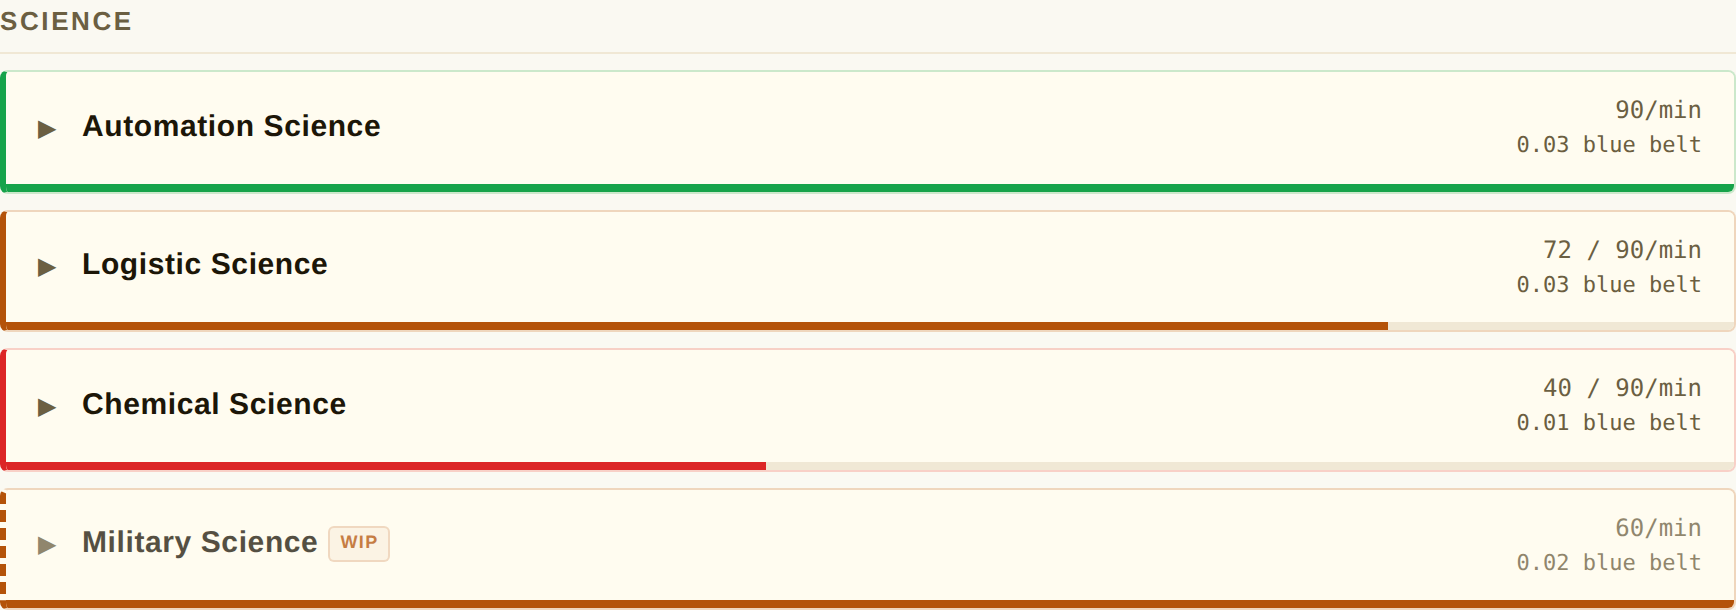
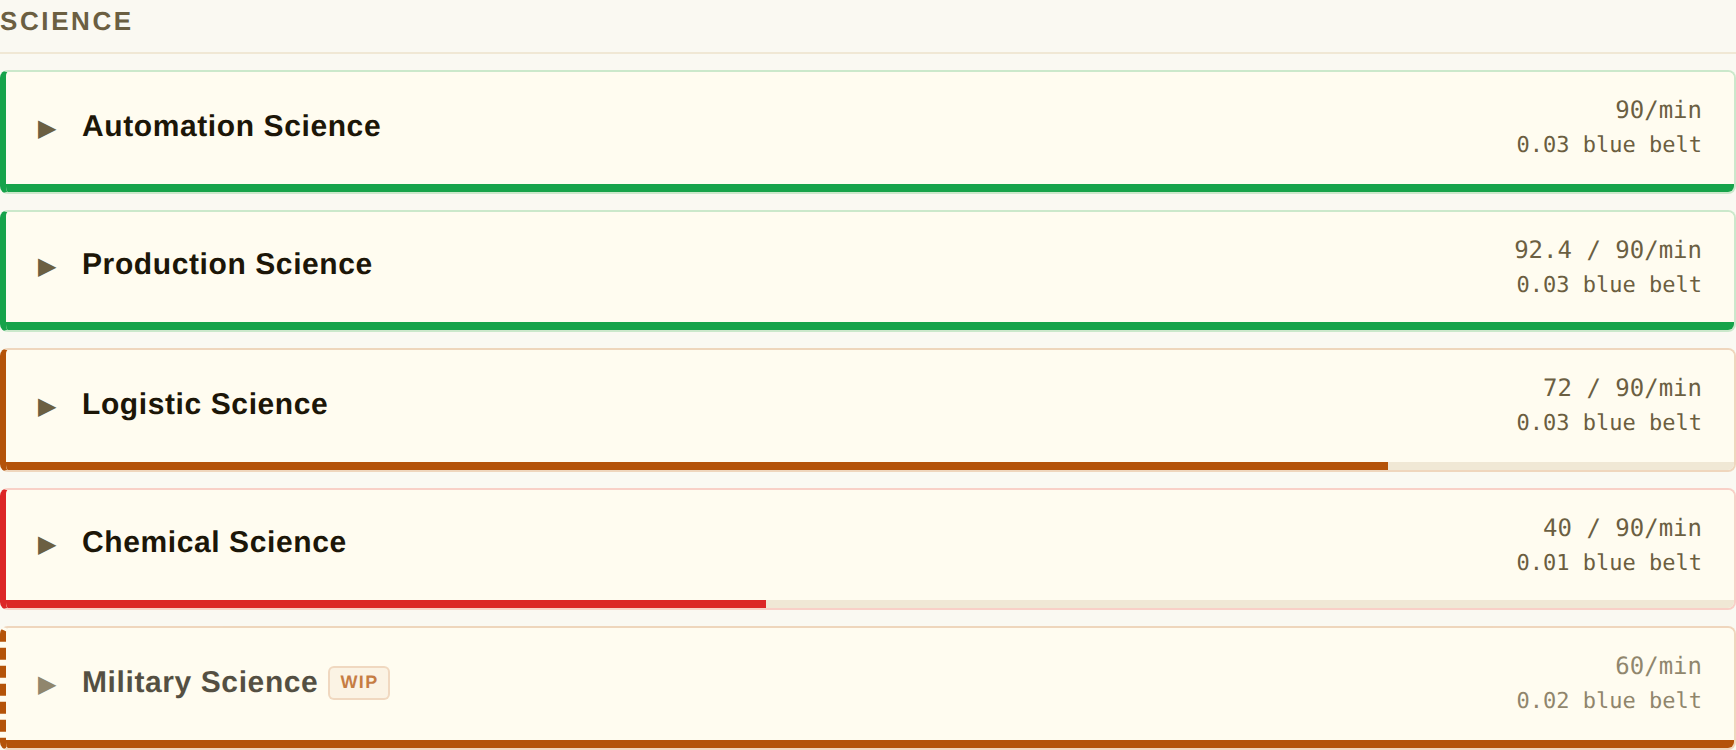
docs(skill): document effective_rate overproduction via --use-ceil
effective_rate had only one documented producer (recalculation from
actual_machines during partial builds), but its other intended use —
the achievable rate after rounding up to whole machines — was never
written down, so lines sized with --use-ceil ended up with
effective == target.

- SKILL.md §3: expand the effective_rate schema comment with both
  producers
- SKILL.md §3.3: new rule 4 — after a --use-ceil or --machines run,
  set effective_rate to the returned rate_per_min (may exceed
  target_rate), keep target_rate as the player's ask, bump the
  bus_items supply entry
- screenshot_tests: add an overproducing Production Science line
  (92.4 / 90/min) to the status-variants fixture so the rendering
  stays covered

https://claude.ai/code/session_01DGDrp4Pk36nEx7JkSNvRbt

Changed region(s): [[0.0, 0.0, 1.0, 1.0]]

diff --git a/dev/screenshot_tests.py b/dev/screenshot_tests.py
@@ -576,10 +576,15 @@ def make_state_overview() -> dict:
 
 
 def make_state_lines_statuses() -> dict:
-    """Lines tab (collapsed): ok / warn / bad / wip status variants."""
+    """Lines tab (collapsed): ok / overproducing / warn / bad / wip status variants.
+
+    Production Science covers the --use-ceil overproduction case (SKILL.md §3.3
+    rule 4): whole machines yield more than the target, effective > target.
+    """
     state = _base_state("Status Variants")
     lines = [
         make_minimal_line("automation-science-pack", "Automation Science",  90,  90),
+        make_minimal_line("production-science-pack", "Production Science",  90,  92.4),
         make_minimal_line("logistic-science-pack",   "Logistic Science",    90,  72),
         make_minimal_line("chemical-science-pack",   "Chemical Science",    90,  40),
         make_minimal_line("military-science-pack",   "Military Science (WIP)", 60, 60, wip=True),

diff --git a/10x-factorio-engineer/SKILL.md b/10x-factorio-engineer/SKILL.md
@@ -359,7 +359,11 @@ working context and update it after every player message.
             "electric-furnace": 2
           },
           "player_notes": "placed 3 assemblers, still need furnaces",
-          "effective_rate": 52.0  // recalculated from actual_machines
+          // What the line actually yields, vs target_rate = what the player asked for.
+          // Two producers: (a) recalculated from actual_machines during partial builds;
+          // (b) the top-level rate_per_min from a --use-ceil or --machines run — whole
+          // machines overproduce, e.g. target 90 → effective 92.4 (see §3.3 rule 4).
+          "effective_rate": 52.0
         }
       ],
 
@@ -490,6 +494,13 @@ Whenever you run `cli.py` for a line, capture the **inputs** of that run in
 1. The `--location` flag is always derived from the parent location's `id`. Don't store it in `cli_args`.
 2. When the player asks to "upgrade this line" (change modules, assembler tier, etc.), **read `cli_args` first** — the sizing key (`rate` / `machines` / `step_machines`) tells you how the line was originally sized, so you preserve that constraint and only modify the parts the player asked to change.
 3. After every CLI run, refresh `cli_args` to reflect the actual command issued.
+4. When a line is sized with `--use-ceil` or `--machines`, set the line's
+   `effective_rate` to the returned top-level `rate_per_min` and keep
+   `target_rate` as the player's original ask. Whole machines overproduce, so
+   `effective_rate` may exceed `target_rate` (e.g. target 90/min with prod
+   modules → 11 whole assemblers → effective 92.4/min). The dashboard shows
+   this as "92.4 / 90/min" at 100%. Also bump the line's `bus_items` supply
+   entry (if any) to the effective rate.
 
 **Example — the uranium line:**
 ```jsonc
